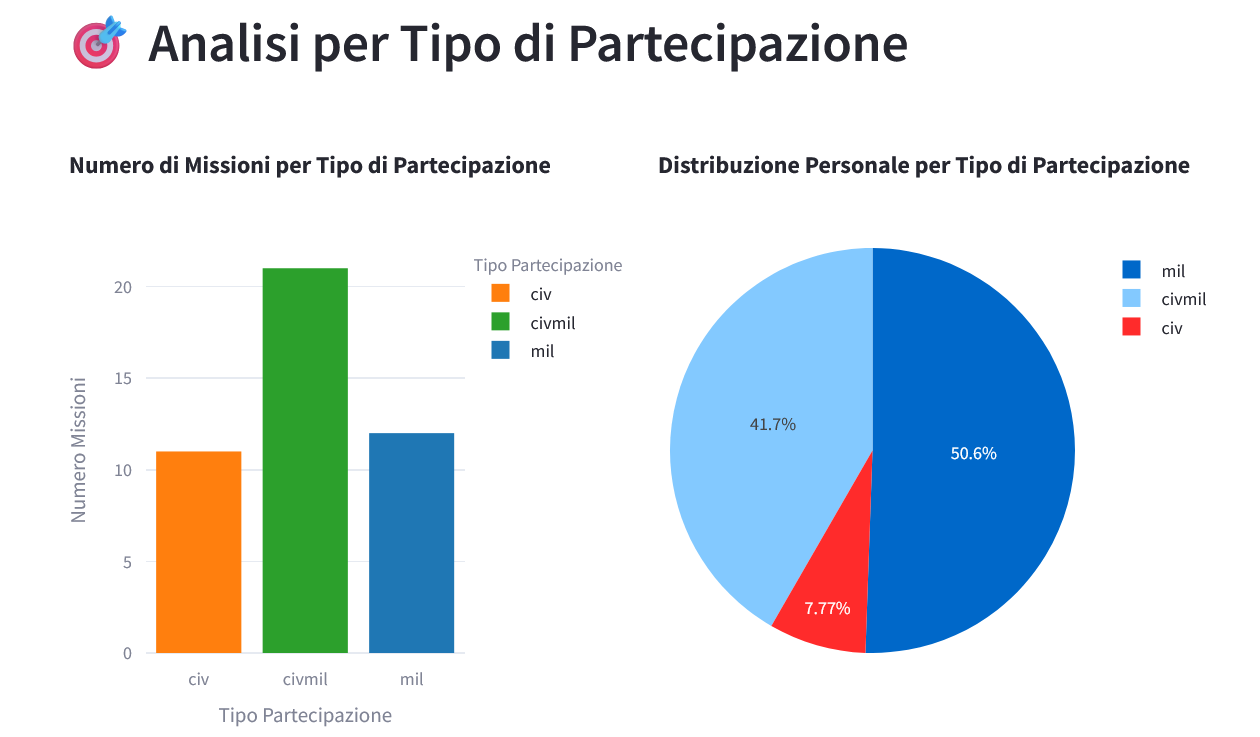
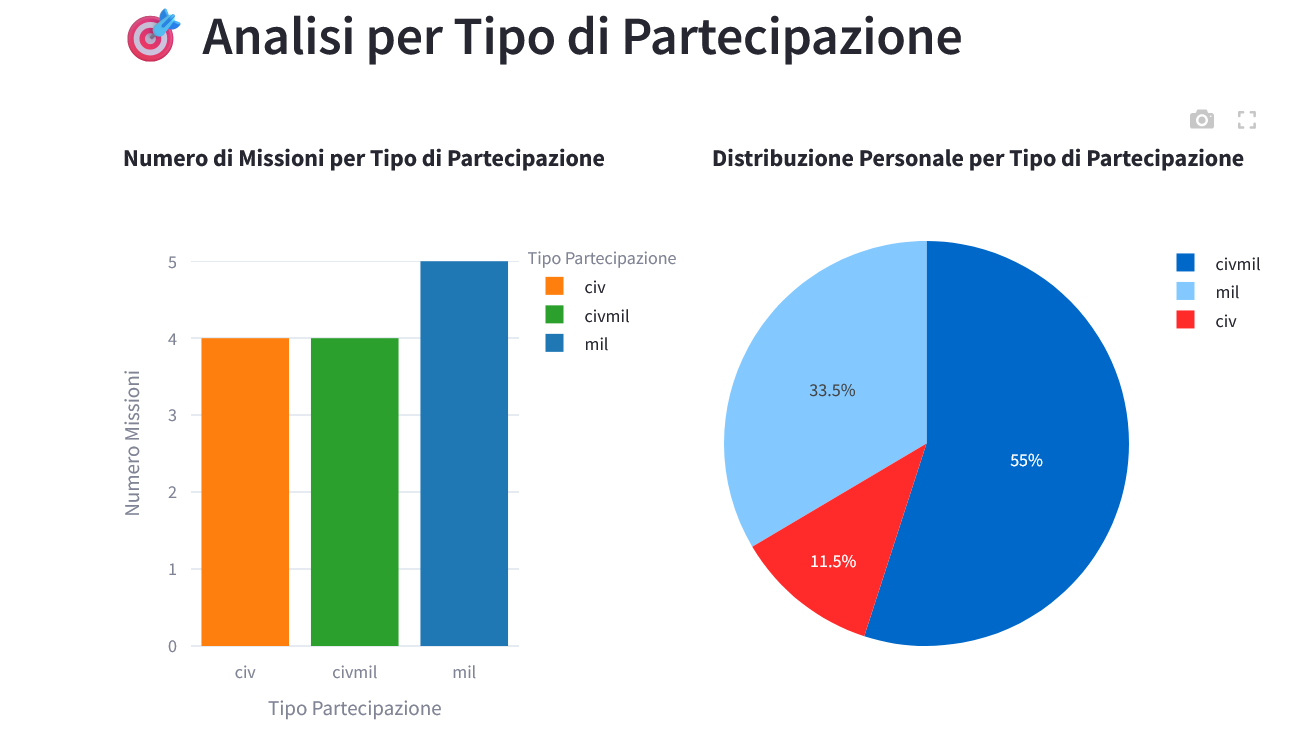
images

diff --git a/src/missioni_dashboard.py b/src/missioni_dashboard.py
@@ -285,6 +285,12 @@ def main():
         st.error("Errore nel caricamento dei dati")
         return
     
+    # Forza conversione date e debug
+    df['data_inizio'] = pd.to_datetime(df['data_inizio'], errors='coerce')
+    df['data_fine'] = pd.to_datetime(df['data_fine'], errors='coerce')
+    st.sidebar.write(f"Missioni con data_inizio non valida: {df['data_inizio'].isna().sum()}")
+    st.sidebar.write(f"Missioni con data_fine non valida: {df['data_fine'].isna().sum()}")
+    
     # Carica dati geografici
     geo_df = load_geo_data()
     
@@ -353,6 +359,9 @@ def main():
         df_filtered = df_filtered[df_filtered['tipo_missione'] == organizzazione_selezionata]
     if commitment_selezionato != 'Tutti i commitment' and 'commitment' in df_filtered.columns:
         df_filtered = df_filtered[df_filtered['commitment'] == commitment_selezionato]
+    
+    # Debug: mostra quante missioni sono nel DataFrame filtrato
+    st.sidebar.write(f"Missioni dopo i filtri: {len(df_filtered)}")
     
     # Metriche principali
     col1, col2, col3, col4 = st.columns(4)

diff --git a/README.md b/README.md
@@ -93,10 +93,20 @@ I documenti PDF vengono elaborati per estrarre:
 - **🎖👔 Mista (civmil)**: Operazioni di pace, stabilizzazione
 
 ### 🏛 Analisi per Organizzazione
-- **🏛 ONU**: 15 missioni (UNIFIL, KFOR, MINURSO, etc.)
-- **🇪🇺 UE**: 8 missioni (EUTM, EUCAP, EUNAVFOR, etc.)
-- **🛡 NATO**: 3 missioni (ISAF, IFOR, SFOR)
-- **🇮🇹 ITA**: 1 missione (MISIN)
+- **🏛 ONU:** 32 missioni  
+  Esempi: UNIFIL, MINURSO, UNMISS, MONUSCO, UNOCI, UNAMID, MINUSTAH, UNTAET, UNMIK, UNFICYP, ecc.
+
+- **🇪🇺 UE:** 23 missioni  
+  Esempi: EUTM Mali, EUBAM Libya, EUTM Somalia, EUTM RCA, EUCAP Sahel Niger, EUNAVFOR MED, IRINI, EUMM, EUAM Iraq, EULEX Kosovo, EUCAP Somalia, EUAM Ukraine, EUMA Armenia, EUPM Moldova, EUBAM Moldova-Ukraine, EUBAM Rafah, EUPOL COPPS, EUSDI Gulf of Guinea, EUNAVFOR Aspides, ecc.
+
+- **🛡 NATO:** 5 missioni  
+  Esempi: KFOR, ISAF, IFOR, SFOR, NATO Mission Iraq
+
+- **🇮🇹 ITA:** 1 missione  
+  Esempio: MISIN
+
+- **Coalizione:** 2 missioni  
+  Esempi: MFO, Operation Inherent Resolve
 
 ![Analisi per Organizzazione]
 *Distribuzione delle missioni per organizzazione internazionale*
@@ -364,3 +374,10 @@ Il file `data/processed/missioni_complete.csv` contiene ora **esattamente 43 mis
 
 **Progetto sviluppato presso l'Università degli Studi di Catania**  
 <img src="docs/images/logo_unict.jpg" alt="Logo Università di Catania" width="180"/> 
+
+## 🐞 Debug e raccomandazioni sulle date
+
+- Le colonne `data_inizio` e `data_fine` devono essere sempre in formato `YYYY-MM-DD` (esempio: 2024-07-02).
+- La dashboard forza la conversione automatica delle date e segnala nella sidebar quante missioni hanno date non valide.
+- Se vedi missioni mancanti nelle analisi temporali, controlla che tutte le date siano corrette e senza valori vuoti.
+- In caso di errore, correggi il file CSV e ricarica la dashboard.
